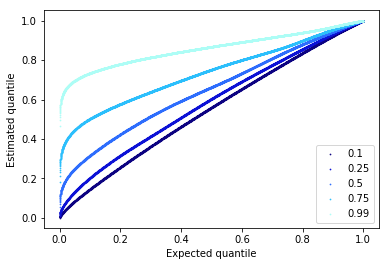
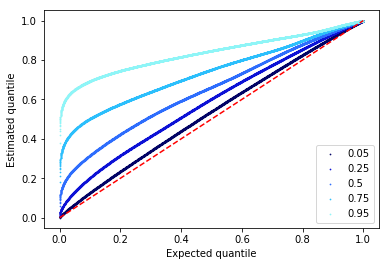
Fix diagnostic quantile plot

Changed region(s): [[0.1542, 0.0602, 0.9563, 0.812], [0.8946, 0.5414, 0.9563, 0.6015], [0.9254, 0.782, 0.9563, 0.812]]

diff --git a/docs/zinb.html b/docs/zinb.html
@@ -1,7 +1,7 @@
 <!DOCTYPE html>
 <html lang="en">
 <head>
-<!-- 2018-02-14 Wed 14:42 -->
+<!-- 2018-02-15 Thu 10:41 -->
 <meta charset="utf-8">
 <meta name="viewport" content="width=device-width, initial-scale=1">
 <title>Mean/dispersion estimation</title>
@@ -384,11 +384,6 @@ Check that one-hot encoding is OK:
           umi.loc[gene, onehot.dot(np.eye(onehot.shape[1])[idx]).astype(<span class="org-builtin">bool</span>)]).<span class="org-builtin">all</span>()
 </pre>
 </div>
-
-<div class="org-src-container">
-<pre class="src src-ipython">onehot.to_csv(<span class="org-string">'/scratch/midway2/aksarkar/singlecell/onehot.txt.gz'</span>)
-</pre>
-</div>
 </div>
 </div>
 
@@ -477,9 +472,11 @@ perform gradient descent.
 
     <span class="org-keyword">if</span> gene_dropout:
       <span class="org-keyword">if</span> ind_dropout:
-        <span class="org-variable-name">dropout</span> = tf.matmul(onehot, tf.Variable(tf.zeros([m, p])))
+        <span class="org-variable-name">dropout_params</span> = tf.Variable(tf.zeros([m, p]))
+        <span class="org-variable-name">dropout</span> = tf.matmul(onehot, dropout)
       <span class="org-keyword">else</span>:
-        <span class="org-variable-name">dropout</span> = tf.Variable(tf.zeros([1, p]))
+        <span class="org-variable-name">dropout_params</span> = tf.Variable(tf.zeros([1, p]))
+        <span class="org-variable-name">dropout</span> = dropout_params
       <span class="org-variable-name">llik</span> = tf.reduce_mean(
         zinb_llik(umi, size_factor * tf.matmul(onehot, mean),
                   tf.matmul(onehot, inv_disp), dropout))
@@ -493,7 +490,7 @@ perform gradient descent.
     <span class="org-variable-name">train</span> = tf.train.AdamOptimizer(learning_rate=learning_rate).minimize(-llik)
     <span class="org-variable-name">opt</span> = [tf.log(mean), -tf.log(inv_disp)]
     <span class="org-keyword">if</span> gene_dropout:
-      opt.append(dropout)
+      opt.append(dropout_params)
     <span class="org-variable-name">curr</span> = <span class="org-builtin">float</span>(<span class="org-string">'-inf'</span>)
     <span class="org-keyword">with</span> tf.Session() <span class="org-keyword">as</span> sess:
       sess.run(tf.global_variables_initializer())
@@ -530,16 +527,19 @@ We can use an idea from <code>ashr</code>: Let \(\hat{G}_{ijk}\) denote the CDF 
 </p>
 
 <div class="org-src-container">
-<pre class="src src-ipython"><span class="org-keyword">def</span> <span class="org-function-name">estimated_cdf</span>(x, mean, disp, size, onehot):
+<pre class="src src-ipython"><span class="org-keyword">def</span> <span class="org-function-name">estimated_cdf</span>(x, mean, disp, size, onehot, dropout=<span class="org-constant">None</span>):
   <span class="org-variable-name">n</span> = onehot.dot(np.exp(-disp.values.T) + 1e-8)
   <span class="org-variable-name">p</span> = 1 / (1 + size.to_frame().values * onehot.dot(np.exp(mean.values + disp.values).T))
   <span class="org-keyword">assert</span> (n.values &gt; 0).<span class="org-builtin">all</span>()
   <span class="org-keyword">assert</span> (p.values &gt;= 0).<span class="org-builtin">all</span>()
   <span class="org-keyword">assert</span> (p.values &lt;= 1).<span class="org-builtin">all</span>()
-  <span class="org-keyword">return</span> st.nbinom(n=n, p=p).cdf(x)
+  <span class="org-variable-name">G</span> = st.nbinom(n=n, p=p).cdf(x)
+  <span class="org-keyword">if</span> dropout <span class="org-keyword">is</span> <span class="org-keyword">not</span> <span class="org-constant">None</span>:
+    <span class="org-variable-name">G</span> = sp.expit(-dropout.values.T) * G + sp.expit(dropout.values.T)
+  <span class="org-keyword">return</span> G
 
-<span class="org-keyword">def</span> <span class="org-function-name">diagnostic</span>(umi, mean, disp, size, onehot):
-  <span class="org-variable-name">q</span> = estimated_cdf(umi.values.T, mean, disp, size, onehot)
+<span class="org-keyword">def</span> <span class="org-function-name">diagnostic</span>(umi, mean, disp, size, onehot, dropout=<span class="org-constant">None</span>):
+  <span class="org-variable-name">q</span> = estimated_cdf(umi.values.T, mean, disp, size, onehot, dropout=dropout)
   plt.clf()
   plt.scatter(x=np.linspace(0, 1, q.shape[0]),
               y=<span class="org-builtin">sorted</span>(q.ravel()),
@@ -556,18 +556,19 @@ Look at the quantiles of the QQ plots over all genes:
 </p>
 
 <div class="org-src-container">
-<pre class="src src-ipython"><span class="org-keyword">def</span> <span class="org-function-name">diagnostic_quantiles</span>(umi, mean, disp, size, onehot, quantiles=<span class="org-constant">None</span>):
+<pre class="src src-ipython"><span class="org-keyword">def</span> <span class="org-function-name">diagnostic_quantiles</span>(umi, mean, disp, size, onehot, dropout=<span class="org-constant">None</span>, quantiles=<span class="org-constant">None</span>):
   <span class="org-keyword">if</span> quantiles <span class="org-keyword">is</span> <span class="org-constant">None</span>:
-    <span class="org-variable-name">quantiles</span> = np.array([.1, .25, .5, .75, .99])
+    <span class="org-variable-name">quantiles</span> = np.array([.05, .25, .5, .75, .95])
   <span class="org-keyword">else</span>:
     <span class="org-variable-name">quantiles</span> = np.array(quantiles)
     <span class="org-keyword">assert</span> (0 &lt;= quantiles &lt;= 1).<span class="org-builtin">all</span>()
-  <span class="org-variable-name">cdf</span> = np.sort(estimated_cdf(umi.values.T, mean, disp, size, onehot).T)
+  <span class="org-variable-name">cdf</span> = np.sort(estimated_cdf(umi.values.T, mean, disp, size, onehot, dropout=dropout).T)
   <span class="org-variable-name">cdf_quantiles</span> = np.percentile(cdf, 100 * quantiles, interpolation=<span class="org-string">'higher'</span>, axis=0)
 
   plt.clf()
   <span class="org-keyword">for</span> q, row <span class="org-keyword">in</span> <span class="org-builtin">zip</span>(quantiles, cdf_quantiles):
     plt.scatter(x=np.linspace(0, 1, row.shape[0]), y=row, c=colorcet.cm[<span class="org-string">'kbc'</span>](q), s=.5, label=q)
+  plt.plot([0, 1], [0, 1], c=<span class="org-string">'r'</span>, ls=<span class="org-string">'dashed'</span>)
   plt.legend()
   plt.xlabel(<span class="org-string">'Expected quantile'</span>)
   plt.ylabel(<span class="org-string">'Estimated quantile'</span>)
@@ -751,25 +752,24 @@ pd.DataFrame(dropout.T, index=umi.index).to_csv(<span class="org-string">'/scrat
 </div>
 
 <p>
-Plot the data and fitted distribution for the zero-inflated model.
+Plot the diagnostic for the model.
 </p>
 
 <div class="org-src-container">
 <pre class="src src-ipython"><span class="org-variable-name">zi_mean</span> = pd.read_table(<span class="org-string">'/scratch/midway2/aksarkar/singlecell/zi-mean.txt.gz'</span>, sep=<span class="org-string">' '</span>, index_col=0)
 <span class="org-variable-name">zi_disp</span> = pd.read_table(<span class="org-string">'/scratch/midway2/aksarkar/singlecell/zi-dispersion.txt.gz'</span>, sep=<span class="org-string">' '</span>, index_col=0)
+<span class="org-variable-name">zi_dropout</span> = pd.read_table(<span class="org-string">'/scratch/midway2/aksarkar/singlecell/zi-dropout.txt.gz'</span>, sep=<span class="org-string">' '</span>, index_col=0)
 </pre>
 </div>
 
 <div class="org-src-container">
-<pre class="src src-ipython"><span class="org-variable-name">grid</span> = np.arange(14)
-<span class="org-variable-name">exp_counts</span> = expected_counts(umi, zi_mean, zi_disp, size, onehot, grid)
-plot_fit(umi, exp_counts, grid)
+<pre class="src src-ipython">diagnostic_quantiles(umi, zi_mean, zi_disp, size, onehot, zi_dropout)
 </pre>
 </div>
 
 
 <div class="figure">
-<p><img src="figure/zinb.org/zinb-hist.png" alt="zinb-hist.png">
+<p><img src="figure/zinb.org/zinb-diagnostic.png" alt="zinb-diagnostic.png">
 </p>
 </div>
 </div>
@@ -808,14 +808,26 @@ Plot the data and fitted distribution.
 </p>
 
 <div class="org-src-container">
-<pre class="src src-ipython"><span class="org-variable-name">zi_mean</span> = pd.read_table(<span class="org-string">'/scratch/midway2/aksarkar/singlecell/zi2-mean.txt.gz'</span>, sep=<span class="org-string">' '</span>, index_col=0)
-<span class="org-variable-name">zi_disp</span> = pd.read_table(<span class="org-string">'/scratch/midway2/aksarkar/singlecell/zi2-dispersion.txt.gz'</span>, sep=<span class="org-string">' '</span>, index_col=0)
+<pre class="src src-ipython"><span class="org-variable-name">zi2_mean</span> = pd.read_table(<span class="org-string">'/scratch/midway2/aksarkar/singlecell/zi2-mean.txt.gz'</span>, sep=<span class="org-string">' '</span>, index_col=0)
+<span class="org-variable-name">zi2_disp</span> = pd.read_table(<span class="org-string">'/scratch/midway2/aksarkar/singlecell/zi2-dispersion.txt.gz'</span>, sep=<span class="org-string">' '</span>, index_col=0)
+<span class="org-variable-name">zi2_dropout</span> = pd.read_table(<span class="org-string">'/scratch/midway2/aksarkar/singlecell/zi2-dropout.txt.gz'</span>, sep=<span class="org-string">' '</span>, index_col=0)
 </pre>
 </div>
 
 <div class="org-src-container">
+<pre class="src src-ipython">diagnostic_quantiles(umi, zi2_mean, zi2_disp, size, onehot, zi2_dropout)
+</pre>
+</div>
+
+
+<div class="figure">
+<p><img src="figure/zinb.org/zinb-diagnostic.png" alt="zinb-diagnostic.png">
+</p>
+</div>
+
+<div class="org-src-container">
 <pre class="src src-ipython"><span class="org-variable-name">grid</span> = np.arange(14)
-<span class="org-variable-name">exp_counts</span> = expected_counts(umi, zi_mean, zi_disp, size, onehot, grid)
+<span class="org-variable-name">exp_counts</span> = expected_counts(umi, zi2_mean, zi2_disp, size, onehot, grid)
 plot_fit(umi, exp_counts, grid)
 </pre>
 </div>
@@ -830,7 +842,7 @@ plot_fit(umi, exp_counts, grid)
 </div>
 <div id="postamble" class="status">
 <p class="author">Author: Abhishek Sarkar</p>
-<p class="date">Created: 2018-02-14 Wed 14:42</p>
+<p class="date">Created: 2018-02-15 Thu 10:41</p>
 <p class="validation"><a href="http://validator.w3.org/check?uri=referer">Validate</a></p>
 </div>
 </body>
